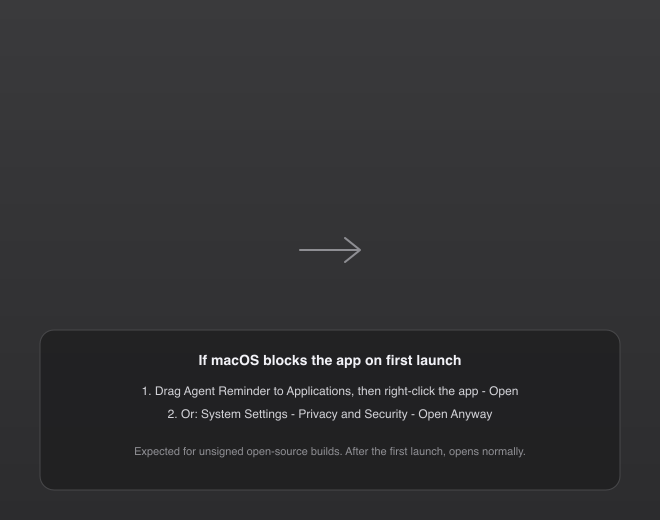
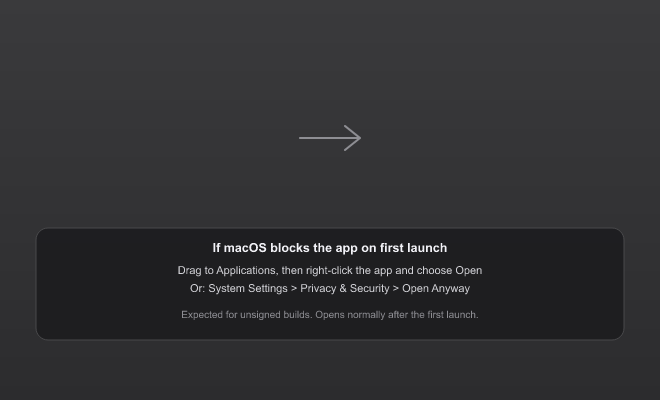
Fix macOS DMG layout, readable background text, and post-build cleanup.
Reposition installer icons, render Gatekeeper hints with system fonts, and clean DMG artifacts in CI to avoid horizontal scroll and stray service files.

diff --git a/src-tauri/examples/render_dmg_background.rs b/src-tauri/examples/render_dmg_background.rs
@@ -1,0 +1,19 @@
+fn main() {
+    let svg = include_str!("../dmg-assets/background.svg");
+    let mut options = usvg::Options::default();
+    options.font_family = "Arial".to_string();
+    let mut fontdb = usvg::fontdb::Database::new();
+    fontdb.load_system_fonts();
+    options.fontdb = std::sync::Arc::new(fontdb);
+
+    let tree = usvg::Tree::from_str(svg, &options).expect("valid dmg background svg");
+
+    let width = tree.size().width() as u32;
+    let height = tree.size().height() as u32;
+    let mut pixmap = resvg::tiny_skia::Pixmap::new(width, height).expect("pixmap");
+    resvg::render(&tree, resvg::tiny_skia::Transform::default(), &mut pixmap.as_mut());
+
+    let out = std::path::Path::new(env!("CARGO_MANIFEST_DIR")).join("dmg-assets/background.png");
+    pixmap.save_png(&out).expect("write background png");
+    println!("Wrote {}", out.display());
+}
